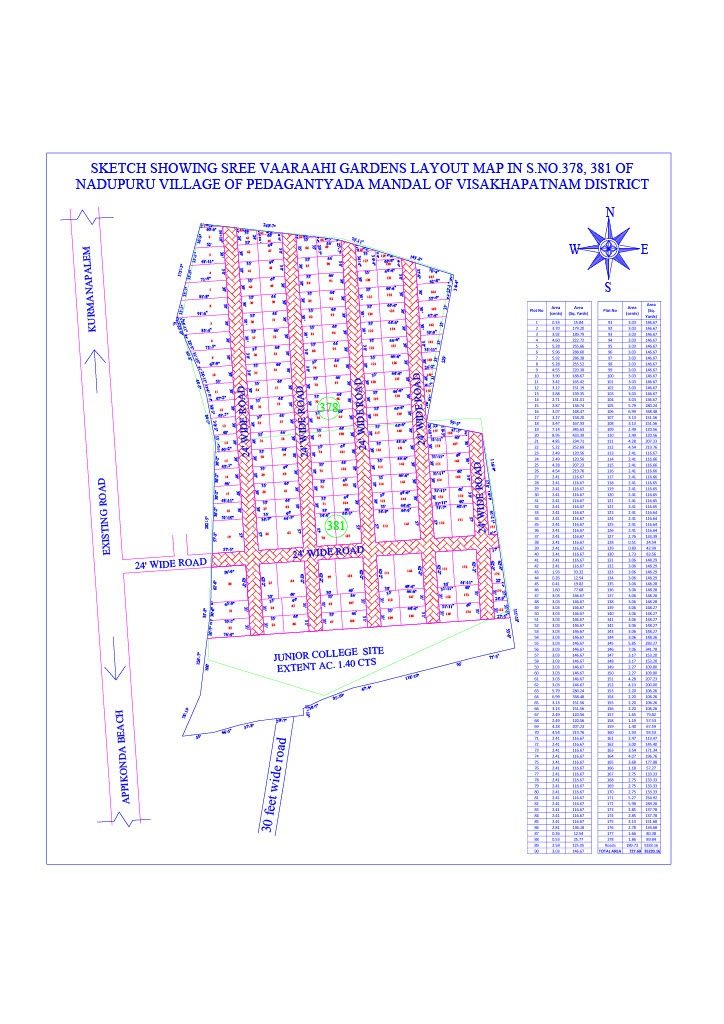
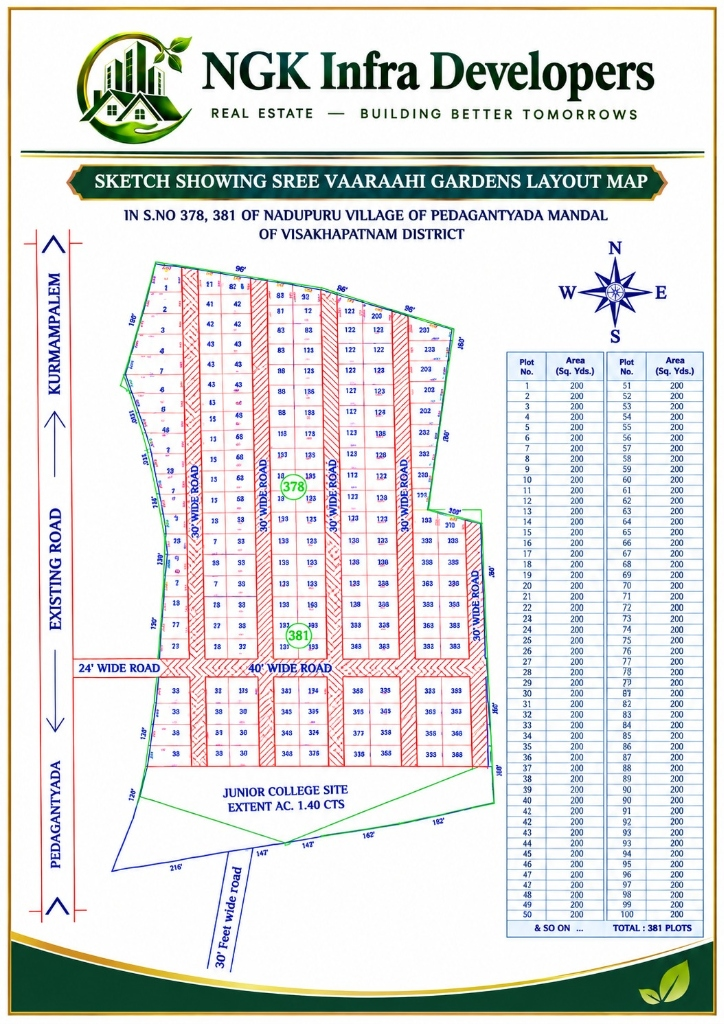
Update Project 3 (Sree Vaaraahi Gardens) images and gallery

diff --git a/src/app/pages/ProjectDetail.tsx b/src/app/pages/ProjectDetail.tsx
@@ -61,13 +61,11 @@ const PROJECT_DATA = {
       "Borewell Facility & Electrical Poles at Initial Stage",
       "Security Guard Facility for 3 Years by Company",
     ],
-    coverImage: "/projects/sree-vaaraahi-gardens/page2.png",
+    coverImage: "/projects/sree-vaaraahi-gardens/page3.jpg",
     gallery: [
-      { src: "/projects/sree-vaaraahi-gardens/page1.jpg", caption: "Sree Vaaraahi Gardens — Master Layout Plan" },
-      { src: "/projects/sree-vaaraahi-gardens/page2.png", caption: "Project Overview — Premium Residential Plots" },
-      { src: "/projects/sree-vaaraahi-gardens/page3.png", caption: "Site View — Surrounding Neighbourhood" },
-      { src: "/projects/sree-vaaraahi-gardens/page4.png", caption: "Site View — Plot Area & Development" },
-      { src: "/projects/sree-vaaraahi-gardens/page5.jpg", caption: "Prime Plots Near Kurmannapalem — Highlights & Pricing" },
+      { src: "/projects/sree-vaaraahi-gardens/page1.jpg", caption: "Sree Vaaraahi Gardens — Master Layout Plan (381 Plots)" },
+      { src: "/projects/sree-vaaraahi-gardens/page2.jpg", caption: "Plots For Sale — Near Kurmannapalem, Steel Plant & AMTZ" },
+      { src: "/projects/sree-vaaraahi-gardens/page3.jpg", caption: "Premium Residential Plots — NGK Infra Developers, Gajuwaka" },
     ],
   },
 };

diff --git a/src/app/pages/Projects.tsx b/src/app/pages/Projects.tsx
@@ -48,7 +48,7 @@ const PROJECTS = [
     config: "Multiple Sizes",
     highlights: ["3 KM to Steel Plant Main Gate", "3 KM to Proposed Metro Station", "Within GVMC Limits", "24/7 CCTV Surveillance & Security"],
     tag: "Near Kurmannapalem & Steel Plant",
-    image: "/projects/sree-vaaraahi-gardens/page2.png",
+    image: "/projects/sree-vaaraahi-gardens/page2.jpg",
     status: "Ongoing",
     slug: "sree-vaaraahi-gardens",
     desc: "Sree Vaaraahi Gardens is a premium residential plot venture at Ginnivanipalem, Pedagantyada — strategically positioned near the Steel Plant, AMTZ, and the proposed Metro Station with all modern infrastructure in place.",
